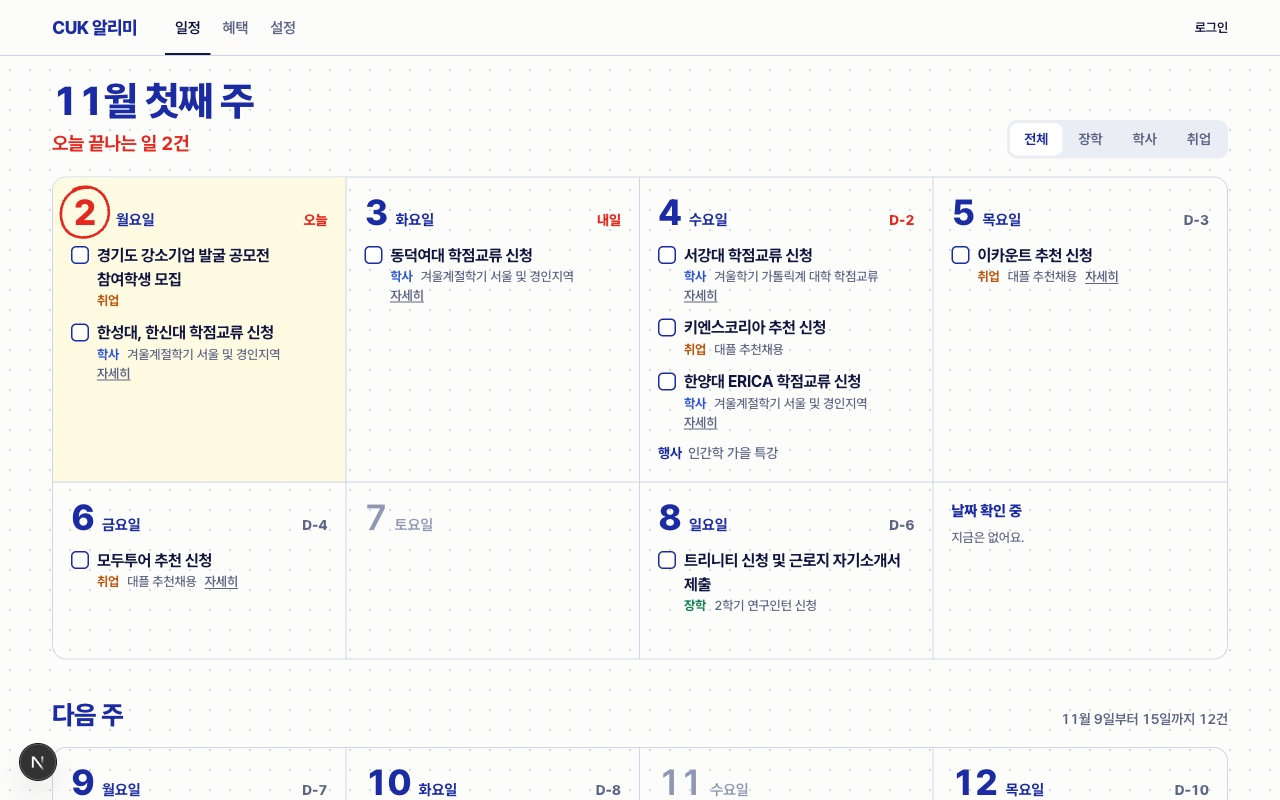
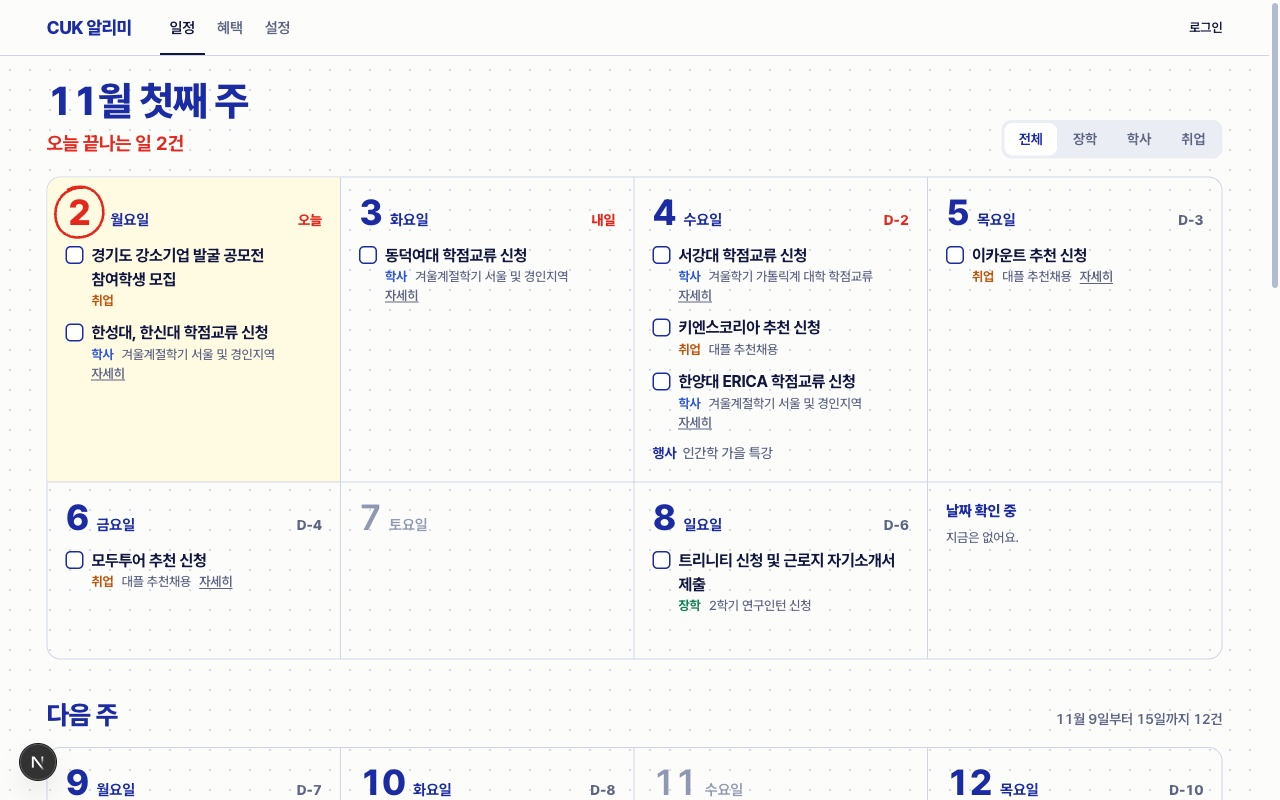
feat: 내 일정을 형광펜으로 표시하고 혜택 머리띠를 걷어낸다
- 내게 맞는 일과 저장한 일의 제목에 형광펜을 칠한다
- 혜택 분류 제목의 연한 배경과 테두리를 없앤다

diff --git a/web/src/app/globals.css b/web/src/app/globals.css
@@ -1,6 +1,6 @@
 /*
  * CUK 알리미 화면 규칙. 값은 docs/design.md가 기준이다.
- * 점 찍힌 종이에 볼펜 파랑. 빨강은 오늘과 이틀 안의 표시에만.
+ * 점 찍힌 종이에 볼펜 파랑. 형광펜은 내게 맞는 일과 저장한 일에만, 빨강은 오늘과 이틀 안의 표시에만.
  */
 
 :root {
@@ -16,6 +16,7 @@
   --hair-2: #b3bbd2;
   --seg: #ebedf4;
   --today: #fffbe3;
+  --hl: #ffe94d;
   --alarm: #e5281e;
   --alarm-2: #fdecea;
   --select: #1b2ba3;
@@ -988,6 +989,20 @@ legend + * {
   color: var(--pen);
 }
 
+/* 형광펜. 내게 맞는 일과 저장한 일의 표시다. 급한 날짜는 빨강이 맡는다. */
+.it.picked .do a > span:first-child {
+  -webkit-box-decoration-break: clone;
+  box-decoration-break: clone;
+  margin-left: -4px;
+  padding: 1px 4px;
+  border-radius: 3px 6px 5px 3px;
+  background: var(--hl);
+}
+
+.it.done .do a > span:first-child {
+  background: none;
+}
+
 /* 행사. 할 일이 아니라서 체크 없이 흐린 글자로만 적는다. */
 .events {
   display: grid;
@@ -1202,56 +1217,44 @@ details.fold .note {
 
 /* ───── 혜택 ───── */
 
-/* 분류마다 색이 하나다. 머리띠, 왼쪽 막대, 항목 이름이 같은 색을 써서 스크롤 중에도 구역이 보인다. */
+/* 분류마다 색이 하나다. 제목, 왼쪽 막대, 항목 이름이 같은 색을 써서 스크롤 중에도 구역이 보인다. */
 .cat-scholarship {
   --cat: #0b6e49;
-  --cat-soft: #dff3e8;
 }
 
 .cat-school {
   --cat: #2348c2;
-  --cat-soft: #e3e9fb;
 }
 
 .cat-subscription {
   --cat: #a84806;
-  --cat-soft: #fcebdc;
 }
 
 .cat-tool {
   --cat: #6d3bbd;
-  --cat-soft: #efe7fb;
 }
 
 .benefit-group {
   margin-top: 28px;
 }
 
-/* 붙어 있을 때 둥근 모서리 틈으로 아래 칸이 비치지 않게 바깥은 종이색으로 막는다. */
 .band {
   position: sticky;
   top: var(--header-h);
   z-index: 5;
-  background: var(--paper);
-}
-
-.band-in {
   display: flex;
   align-items: baseline;
   justify-content: space-between;
   gap: 12px;
-  padding: 10px 18px;
-  border: 1px solid var(--hair);
-  border-bottom: 0;
-  border-radius: 14px 14px 0 0;
-  background: var(--cat-soft, var(--paper-2));
+  padding: 8px 0;
+  background: var(--paper);
   font-size: 20px;
   font-weight: 800;
   letter-spacing: -0.4px;
   color: var(--cat, var(--pen));
 }
 
-.band-in span {
+.band span {
   font-size: 14px;
   font-weight: 700;
 }
@@ -1261,7 +1264,6 @@ details.fold .note {
   list-style: none;
   margin: 0;
   padding: 0;
-  border-radius: 0 0 14px 14px;
   background: var(--sheet);
 }
 

diff --git a/web/src/app/page.tsx b/web/src/app/page.tsx
@@ -315,7 +315,7 @@ function Day({ date, tasks, events, todayIso, ...board }: Board & { date: Date; 
 function Row({ task, done, canSave, onDone, onSave, onReport }: Omit<Board, "todayIso"> & { task: Task }) {
   const finished = done.has(task.key);
   return (
-    <li className={`it ${task.kind} ${finished ? "done" : ""}`}>
+    <li className={`it ${task.kind} ${finished ? "done" : ""} ${task.mine || task.saved ? "picked" : ""}`}>
       <button className="box" aria-pressed={finished} aria-label={`${task.title} 끝냈어요`} onClick={() => onDone(task.key)}>
         <CheckIcon size={12} />
       </button>

diff --git a/web/src/app/benefits/page.tsx b/web/src/app/benefits/page.tsx
@@ -76,9 +76,7 @@ export default function Benefits() {
         return (
           <section key={c} className={`benefit-group cat-${c.toLowerCase()}`} aria-labelledby={`cat-${c}`}>
             <h2 id={`cat-${c}`} className="band">
-              <span className="band-in">
-                {CATEGORY[c] ?? c} <span>{list.length}개</span>
-              </span>
+              {CATEGORY[c] ?? c} <span>{list.length}개</span>
             </h2>
             <ul className="spread two">
               {list.map((b) => (

diff --git a/docs/design.md b/docs/design.md
@@ -4,7 +4,7 @@
 
 ## Direction
 
-**위클리 플래너.** 학생이 공부할 때 쓰는 불렛저널을 화면으로 옮긴다. 점 찍힌 종이, 볼펜 파랑, 빨간 펜이 재료다. 한 주가 한눈에 보여야 하고, 재료는 뜻이 있을 때만 쓴다. 다꾸처럼 꾸미지 않는다.
+**위클리 플래너.** 학생이 공부할 때 쓰는 불렛저널을 화면으로 옮긴다. 점 찍힌 종이, 볼펜 파랑, 형광펜, 빨간 펜이 재료다. 한 주가 한눈에 보여야 하고, 재료는 뜻이 있을 때만 쓴다. 다꾸처럼 꾸미지 않는다.
 
 ## Type
 
@@ -35,6 +35,7 @@
 | `--mute` | `#5D6484` | 메타, 여유 있는 남은 날 |
 | `--hair`, `--hair-2` | `#CFD5E6`, `#B3BBD2` | 칸 선, 입력 테두리 |
 | `--today` | `#FFFBE3` | 오늘 칸 |
+| `--hl` | `#FFE94D` | 형광펜. 내게 맞는 일과 저장한 일의 제목에만 |
 | `--alarm` | `#E5281E` | 오늘 한 줄, 오늘 숫자와 동그라미, D-2까지의 남은 날, 오류 |
 | `--c-jang` `--c-hak` `--c-chwi` | `#0F7F55` `#2B55D6` `#BF540B` | 분류 글자 장학, 학사, 취업 |
 
@@ -53,7 +54,7 @@
 - 읽는 순서는 주 제목, 오늘 한 줄, 분류 고르기, 이번 주 판, 다음 주 판, 앞으로의 일정, 접힌 구간(지역 장학, 특정 대상), 발 밑이다.
 - 다음 주 판의 메모 칸은 내 저장이다. 앞으로의 일정에는 학사일정 표 항목, 행사, 시작일을 날짜순으로 항상 보여 주고, 다른 공지는 접어 둔다.
 - 칸에는 숫자, 요일, 남은 날(오늘, 내일, D-n)이 있고 아래에 할 일 행이 쌓인다. 일이 없는 날은 숫자를 흐리게 둔다.
-- 행은 체크, 할 일, 저장 책갈피 순이다. 메타 줄은 분류, 공지 이름, 시각, 내게 맞음, 자세히 접기이고 간격으로만 띄운다. 자세히를 열면 자격 원문과 날짜 신고가 있다.
+- 행은 체크, 할 일, 저장 책갈피 순이다. 메타 줄은 분류, 공지 이름, 시각, 내게 맞음, 자세히 접기이고 간격으로만 띄운다. 자세히를 열면 자격 원문과 날짜 신고가 있다. 내게 맞는 일과 저장한 일은 제목에 형광펜을 칠한다. 급한 날짜는 빨강이 맡으므로 형광펜은 "내 것"만 뜻하고, 주간 판의 할 일 행에만 쓴다.
 - 1023px 이하는 2열, 720px 이하는 1열이고 일이 없는 날을 숨긴다. 아래 탭을 쓴다.
 
 **할 일 이름.** 공문 제목 대신 `web/src/lib/tasks.ts`가 만든 이름을 쓴다. 한 공지의 같은 날 줄은 한 줄로 합친다("한성대, 한신대 학점교류 신청"). 라벨이 "신청기간"처럼 뜻이 없으면 공문 제목을 줄여 쓴다. 원문 제목은 링크의 `title`에 남긴다.
@@ -66,7 +67,7 @@
 
 **날짜 신고.** 로그인하면 행의 자세히 안에 "날짜가 달라요" 글자 버튼이 있다. 모든 행에 늘어놓으면 휴대폰에서 시끄러워서 접어 둔다. 행사 줄은 접기가 없어 마우스를 올렸을 때 보이고, 터치 기기에서는 늘 보인다. 누르면 확인을 한 번 받는다. 그림에서 읽었다는 표시는 학생 화면에 넣지 않는다.
 
-**혜택.** 분류마다 색 하나를 쓴다. 장학 `#0B6E49`/`#DFF3E8`, 학교 `#2348C2`/`#E3E9FB`, 구독 `#A84806`/`#FCEBDC`, 도구 `#6D3BBD`/`#EFE7FB`. 색 머리띠는 스크롤할 때 머리글 아래에 붙고, 칸 왼쪽 4px 막대와 항목 이름도 같은 색이다. 오른쪽에는 마감이 있는 항목의 D-n만 적는다. 항목 전체가 접기 단추이고 오른쪽 꺾쇠로 펼친다. 가격, 조건, 방법, 갱신, 출처, 확인일은 펼친 안에 두고, 재확인이 필요한 항목만 빨강으로 밖에 표시한다.
+**혜택.** 분류마다 색 하나를 쓴다. 장학 `#0B6E49`, 학교 `#2348C2`, 구독 `#A84806`, 도구 `#6D3BBD`. 분류 제목은 배경과 테두리 없이 글자색만 쓰고 스크롤할 때 머리글 아래에 붙는다. 칸 왼쪽 4px 막대와 항목 이름도 같은 색이다. 오른쪽에는 마감이 있는 항목의 D-n만 적는다. 항목 전체가 접기 단추이고 오른쪽 꺾쇠로 펼친다. 가격, 조건, 방법, 갱신, 출처, 확인일은 펼친 안에 두고, 재확인이 필요한 항목만 빨강으로 밖에 표시한다.
 
 **체크와 저장.** 체크는 "끝냈어요" 표시이고 이 브라우저에만 남는다(`localStorage`). 저장은 책갈피이고 서버에 남아 마감 알림 메일로 이어진다.
 
@@ -75,7 +76,7 @@
 - 스터디 플래너와 불렛저널: 주간 칸, 점 종이, 빨간 펜 동그라미.
 - Things Upcoming: 날짜 숫자와 체크 행.
 - 자소설닷컴 채용달력(`docs/research/2026-11-02-home-design.md`): 첫 화면이 곧 도구이고 넓이를 칸으로 쓴다.
-- 가져오지 않은 것: 모눈 배경, 색색의 인덱스 탭, 형광펜.
+- 가져오지 않은 것: 모눈 배경, 색색의 인덱스 탭, 분류별 형광펜.
 
 ## Motion
 
@@ -86,7 +87,7 @@
 - 불러오는 중: 판 자리에 `--paper-2` 면 하나.
 - 오류: 머리 아래 `--alarm` 글자 한 줄과 "다시 시도".
 - 비어 있음: 빈 칸은 그대로 두고 머리 한 줄이 "이번 주에 끝나는 일은 없어요"로 바뀐다.
-- 끝냈어요: 체크가 채워지고 글자가 흐려지며 취소선이 그어진다. 오늘 한 줄의 건수가 줄어든다.
+- 끝냈어요: 체크가 채워지고 글자가 흐려지며 취소선이 그어지고 형광펜이 사라진다. 오늘 한 줄의 건수가 줄어든다.
 - 포커스: 2px `--pen` 바깥선.
 
 ## Sample data
